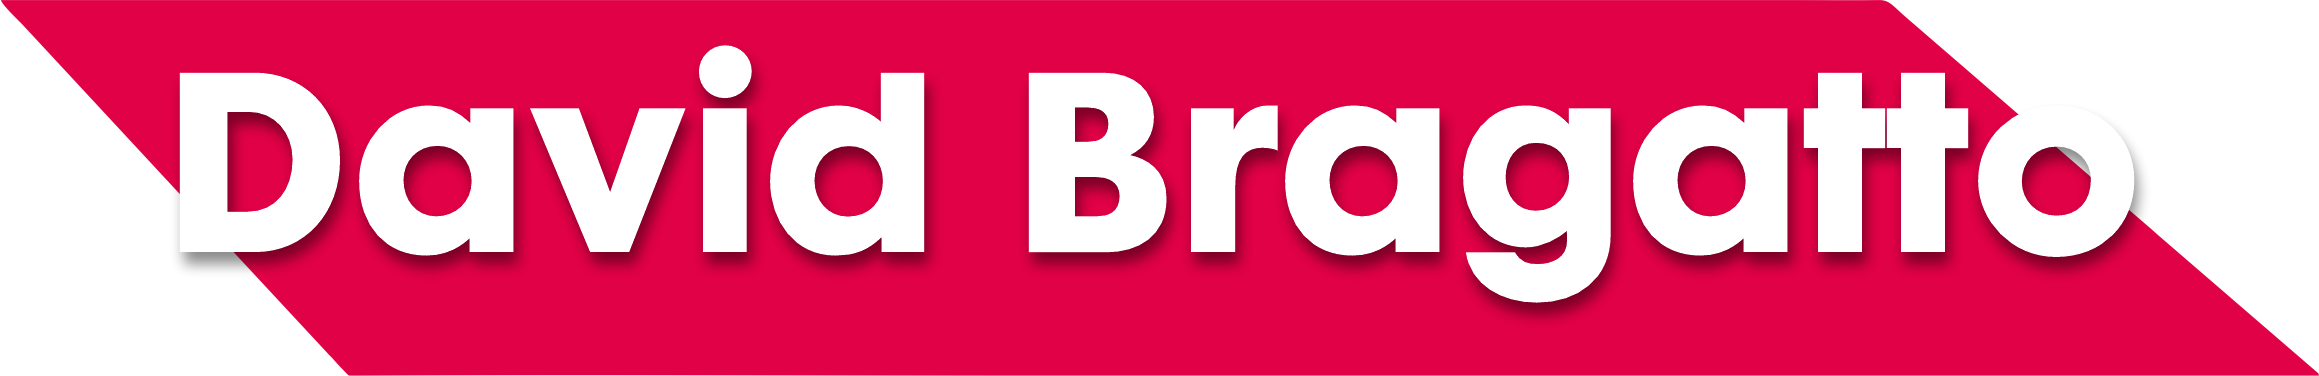
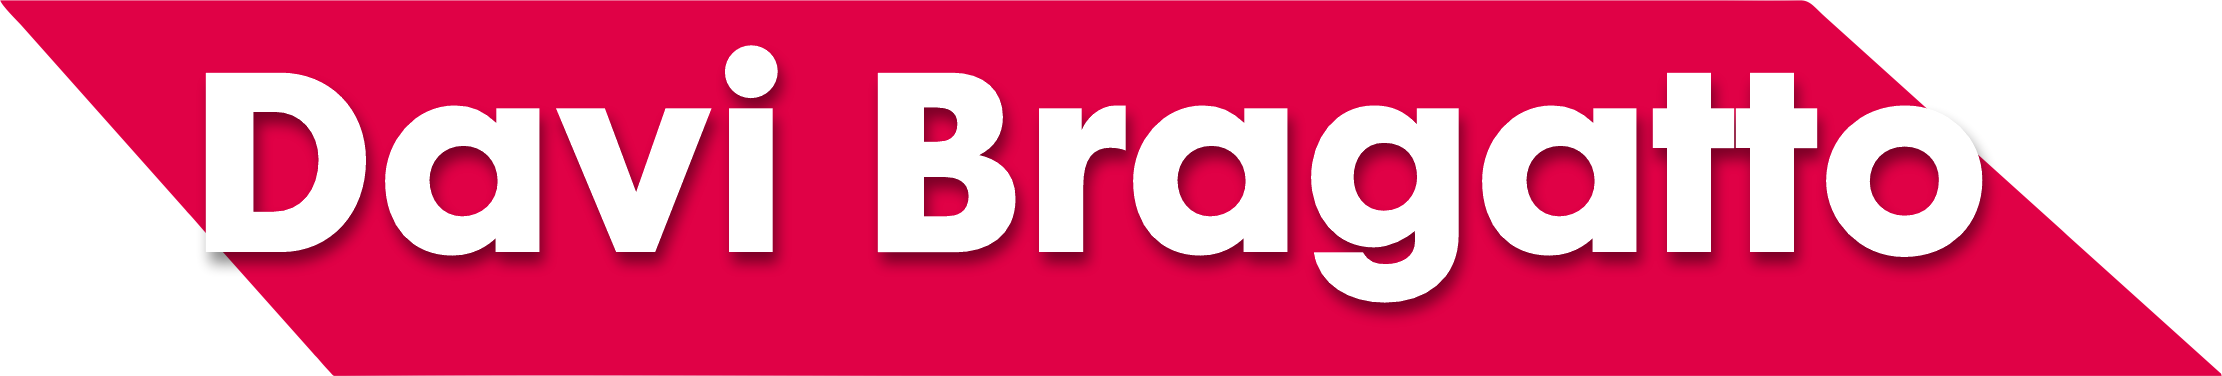
Ajuste de Cor texto, alteração de fonte

Changed region(s): [[0.0621, 0.117, 0.9316, 0.8484], [0.1242, 0.9654, 1.0, 1.0], [0.0, 0.0, 0.0311, 0.0293]]

diff --git a/index.html b/index.html
@@ -10,6 +10,9 @@
     rel="stylesheet"
     href="https://cdnjs.cloudflare.com/ajax/libs/animate.css/4.1.1/animate.min.css"
     />
+    <link rel="preconnect" href="https://fonts.googleapis.com">
+    <link rel="preconnect" href="https://fonts.gstatic.com" crossorigin>
+    <link href="https://fonts.googleapis.com/css2?family=Roboto:wght@700&display=swap" rel="stylesheet">
 
     <title>Fórmula TikTok</title>
 </head>
@@ -51,16 +54,16 @@
           <img class="img-fluid img-s1" src="imagens/logo-tiktok.png" width="45%">
         </div>
         <div class="container-fluid mt-6 ">
-                <div class="pulse-button botao-comprar d-flex justify-content-center">
-                  <button class="pulse-button animate__animated animate__pulse animate__infinite	infinite  d-flex justify-content-center"><h2>Sim! Quero aprender a ganhar dinheiro com o TikTok</h2></button>
-                </div>
+          <div class="pulse-button botao-comprar d-flex justify-content-center">
+            <button class="pulse-button animate__animated animate__pulse animate__infinite	infinite  d-flex justify-content-center"><h2>Sim! Quero aprender a ganhar dinheiro com o TikTok</h2></button>
+          </div>
         </div>
       </section>
       <!--FIM SECTION 1-->
 
       <!--INICIO SECTION 2-->
       <section class="bg-white">
-        <div class="container-fluid mt-2">
+        <div class="container-fluid mt-2 text-gray">
           <div class="row">
 
             <div class="col-6 mb-3">
@@ -107,18 +110,20 @@
       <section class="bg-white">
         <div class="container-fluid text-center mt-4 mb-4">
           <div class="row">
-
             <div class="col-12">
-              <h3>Para você que gera conteúdo no TikTok e nunca ganhou por isso.</h3>
+              <h3>Este curso é para VOCÊ!</h3>
             </div>
-            <div class="col-12">
-              <h3>Para você que quer ingressar no TikTok mas não acredita que possa dar retorno financeiro.</h3>
+            <div class="col-12 text-gray mt-4">
+              <h5>Para você que gera conteúdo no TikTok e nunca ganhou por isso.</h5>
             </div>
-            <div class="col-12">
-              <h3>Para você que tem muita visualização e ainda sim não ganha por isso.</h3>
+            <div class="col-12 text-gray">
+              <h5>Para você que quer ingressar no TikTok mas não acredita que possa dar retorno financeiro.</h5>
             </div>
-            <div class="col-12">
-              <h3>Para você que tem pouca visualização, quer ter mais e quer ganhar com isso.</h3>
+            <div class="col-12 text-gray">
+              <h5>Para você que tem muita visualização e ainda sim não ganha por isso.</h5>
+            </div>
+            <div class="col-12 text-gray">
+              <h5>Para você que tem pouca visualização, quer ter mais e quer ganhar com isso.</h5>
             </div>
           </div>
         </div>
@@ -423,8 +428,8 @@
                   Ainda tem alguma dúvida? 
                 </h5>
 
-                <p>Fale direto com a nossa equipe e tire suas dúvidas a respeito dessa incrível oportunidade. Sem pegadinhas. Sem falsas promessas. Sem enrolação.
-                Não caia em treinamentos rasos e sem nenhum acompanhamento que te ajude a colocar em prática o que ensinamos aqui. Você não é mais um número, é um(a) parceiro(a) que iremos juntos até o seu objetivo
+                <p class="text-gray">Fale direto com a nossa equipe e tire suas dúvidas a respeito dessa incrível oportunidade. Sem pegadinhas. Sem falsas promessas. Sem enrolação.
+                Não caia em treinamentos rasos e sem nenhum acompanhamento que te ajude a colocar em prática o que ensinamos aqui. Você não é mais um número, é um(a) parceiro(a) que iremos juntos até o seu objetivo!
                 </p>
 
               
@@ -436,13 +441,13 @@
 
       <!--SECTION 9-->
       <section class="bg-dark">
-        <div class="container-fluid text-white">
-          <h1>SECTION 8</h1>
+        <div class="container-fluid text-white text-center pt-4">
+          <h3>Contato</h3>
           <div class="row">
             <div class="col-12">
-              <h3>0800 763 1000
-                www.formulatiktok.com.br
-                contato@formulatiktok.com.br</h3>
+              <p>0800 763 1000</p>
+              <p>www.formulatiktok.com.br</p>
+              <p>contato@formulatiktok.com.br</p>
             </div>
           </div>
         </div>

diff --git a/style.css b/style.css
@@ -1,3 +1,7 @@
+body{
+  font-family: 'Roboto', sans-serif;
+}
+
 .bg-tiktok-dark{
     background-color: #010101;
 }
@@ -95,4 +99,8 @@
 .border-bluetiktok{
   border: 2px solid rgb(9, 187, 181);
   opacity: 0.7;
+}
+
+.text-gray{
+  color: rgb(68, 68, 68);
 }
